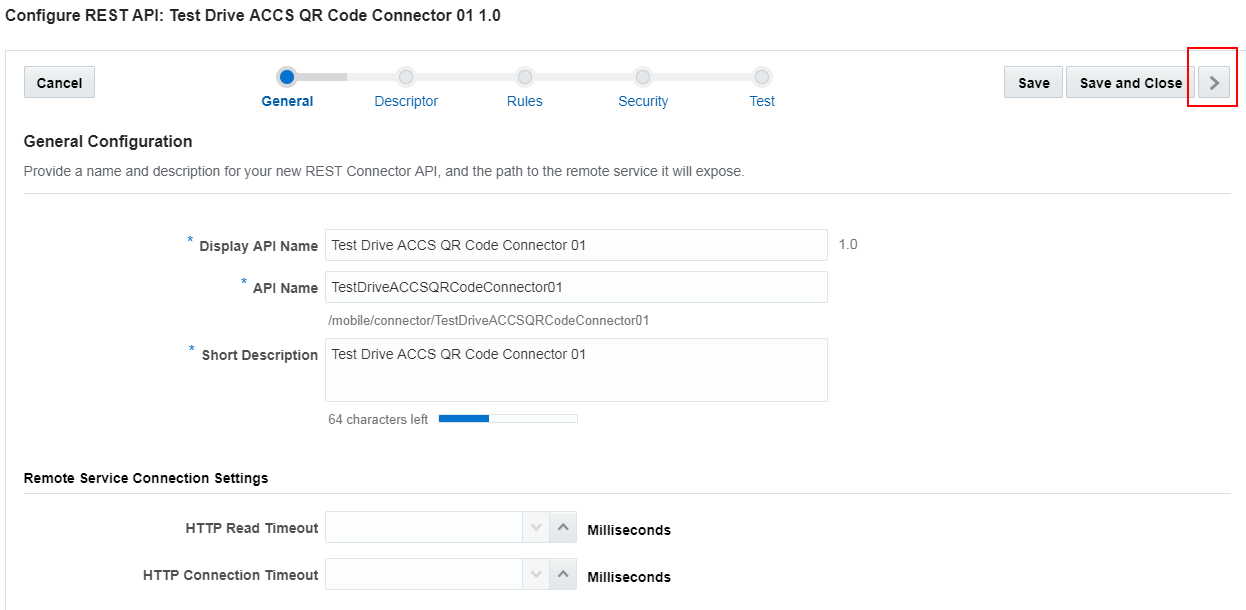
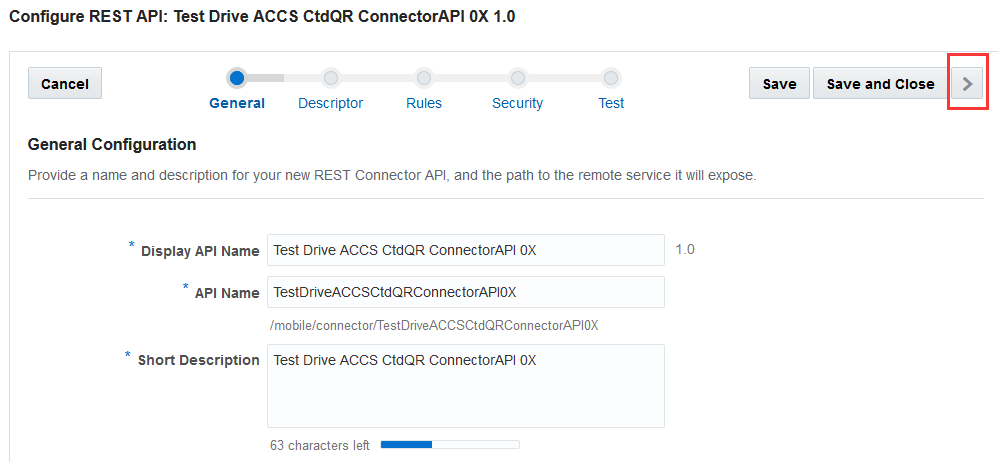
Reverted to create 3 connectors, and updated the images and name of connector APIs to sync with 403

diff --git a/Mobile Service and App/402-MobileLab.md b/Mobile Service and App/402-MobileLab.md
@@ -15,14 +15,85 @@ Once you create a connector API to access the service, you can use it in custom 
 ### About the Exercise Today ###
 There are 3 Connector APIs for offer information query, QR code creation and offer result (e.g. reject or accept) update from external systems like ACCS (Application Container Cloud Service) and ICS (Integration Cloud Service) that we need to access in this lab.
 
-For the above 3 Connector APIs, we will guide you through creating the "Product Management" API Connector to get offer information using an ACCS microservice and the rest 2 have already been created for you to use in the MCS instance.
+To create the above 3 Connector APIs, we will:
+- Create "Product Management" API Connector to get offer information using an ACCS microservice
+- Create "QR Code" API Connector to generate QR codes using an ACCS microservice
+- Create "Process Offer" API Connector to update offer result using an ICS microservice
 
 ### Prerequisites ###
 - Loyalty management MBE created in the previous lab.
 
+#### Create "Product Management" API Connector to get offer information ####
+In this lab, we will create a connector API to integrate ACCS microservice for offer information. **[Note]** A connector API is for the custom APIs. It means a connector API doesn't have direct interactions with mobile applications. Mobile applications only interact with custom APIs and custom APIs will use the connector API to interact external services and systems.
+
+1. On the navigation pane, select “Applications” -> “Connectors”. Click on the “+ New Connector” green button and select “REST” from the dropdown list.
+![](../common/images/mobile/402-New_Connector.png)
+
+2. 2. Enter `Test Drive ACCS PtMgt Connector API 0X`(0X is the sequence number assigned to you by instructor. - e.g.: 01) as the name and short description for this connector. The API name will be automatically generated for you while you type in the Display API Name. Note that the “API Name” will be used in custom API implementation coding thus is must meet JavaScript variable naming standards. Click on “Create” on the bottom right when you are done.
+![](../common/images/mobile/402-New_Connector_Info.png)
+
+3. Review the name/description on the general screen and click on the “Next Step” button (“>” on the top right) to move to the next screen.
+![](../common/images/mobile/402-Connector_Info_Review.png)
+
+4. Enter the URL (e.g.: `https://offer-<YOUR_DOMAIN_NAME>.apaas.em3.oraclecloud.com`. This is the endpoint CREATED by you in the Microservice Lab.) to the REST API into the “Remote URL” textbox. Click on “Next Step”.
+![](../common/images/mobile/402-Connector_URL_Setting.png)
+
+5. We won’t set any rules here, so just click on “Next Step”.
+![](../common/images/mobile/402-Connector_Rule_Setting.png)
+
+6. MCS supports a wide range of security policies for you to use. For the lab, to make it simple, no security policy setting is required. Just click on “Next Step”.
+![](../common/images/mobile/402-Connector_Security_Setting.png)
+
+7. Click on “Save” when prompt for confirmation.
+![](../common/images/mobile/402-Connector_Save.png)
+
+8. Now your connector is ready and you can test it. Select `GET` as the HTTP method, enter `/ptmgt/v1/offers/10001` into the “Local resource name” following the “Local URI”.
+![](../common/images/mobile/402-Connector_Test.png)
+
+9. Select your MBE(e.g.: LoyaltyMgmt_MBE01) you created from the dropdown list in the “Authentication” section and you will find the actual url that is getting called at the end in the “Remote URL” field. Click on “Test Endpoint”.
+![](../common/images/mobile/402-Connector_Test_EndPoint.png)
+
+10. You shall see an HTTP 200 OK response at the bottom of the page and it is all set.
+![](../common/images/mobile/402-Connector_Test_Result.png)
+
+---
+#### Create "QR Code" API Connector to generate QR codes ####
+In this lab, we will create a connector API to integrate ACCS microservice for QR code generation. The whole process is almost same to the above.
+
+1. On the navigation pane, select “Applications” -> “Connectors”. Click on the “+ New Connector” green button and select “REST” from the dropdown list.
+![](../common/images/mobile/402-New_Connector.png)
+
+2. Enter `Test Drive ACCS CtdQR ConnectorAPI 0X`(0X is the sequence number assigned to you by instructor. - e.g.: 01) as a name for this connector. The API name will be automatically generated for you while you type in the Display API Name. Note that the “API Name” will be used in custom API implementation coding thus is must meet JavaScript variable naming standards. Click on “Create” on the bottom right when you are done.
+![](../common/images/mobile/402-QRCode_Connector_API.png)
+
+3. Review the name/description on the general screen and click on the “Next Step” button (“>” on the top right) to move to the next screen.
+![](../common/images/mobile/402-QRCode_Connector_API_Review.png)
+
+4. Enter the URL (e.g: `https://qrcodegenerator-<YOUR_DOMAIN_NAME>.apaas.em3.oraclecloud.com`. This is the endpoint CREATED by you in the Microservice Lab.) to the REST API into the “Remote URL” textbox. Click on “Next Step”.
+![](../common/images/mobile/402-QRCode_Connector_URL_Setting.png)
+
+5. We won’t set any rules here, so just click on “Next Step”.
+![](../common/images/mobile/402-QRCdoe_Connector_Rule_Setting.png)
+
+6. MCS supports a wide range of security policies for you to use. For the lab, to make it simple, no security policy setting is required. Just click on “Next Step”.
+![](../common/images/mobile/402-QRCdoe_Connector_Security_Setting.png)
+
+7. Click on “Save” when prompt for confirmation.
+![](../common/images/mobile/402-Connector_Save.png)
+
+8. Now your connector is ready and you can test it. Select `GET` as the HTTP method, enter `/ctdqr/v1/offer/10001` into the “Local resource name” following the “Local URI”.
+![](../common/images/mobile/402-QRCode_Connector_Test.png)
+
+9. Select your MBE(e.g.: `LoyaltyMgmt_MBE01`) you created from the dropdown list in the “Authentication” section and you will find the actual url that is getting called at the end in the “Remote URL” field. Click on “Test Endpoint”.
+![](../common/images/mobile/402-QRCode_Connector_Test_EndPoint.png)
+
+10. You shall see an HTTP 200 OK response at the bottom of the page and it is all set.
+![](../common/images/mobile/402-QRCode_Connector_Test_Result.png)
+
+
 ----
 #### Create "Process Offer" Connector API to update offer result ####
-In this lab, we will create a connector API to integrate ICS microservice for updating offer result. **[Note]** A connector API is for the custom APIs. It means a connector API doesn't have direct interactions with mobile applications. Mobile applications only interact with custom APIs and custom APIs will use the connector API to interact external services and systems.
+In this lab, we will create a connector API to integrate ICS microservice for updating offer result. The whole process is almost same to the above.
 
 1. On the navigation pane, select “Applications” -> “Connectors”. Click on the “+ New Connector” green button and select “REST” from the dropdown list.
 ![](../common/images/mobile/402-New_Connector.png)
@@ -64,14 +135,6 @@ In this lab, we will create a connector API to integrate ICS microservice for up
 13. You shall see an HTTP 200 OK response at the bottom of the page and it is all set.
 ![](../common/images/mobile/402-ICS_Connector_Test_Result.png)
 
-----
-#### Create "Product Management" and "QR Code" Connector APIs ####
-Repeat the above steps to create another two connector APIs to integrate with the "Product Management" and "QR Code" microservices you created in the microservices lab. Since security is not implemented for these two microservices, you don't need to configure security policy for these two new connector APIs. Instead, you can simply create two REST connector APIs with the following informatoin. **[Note]** Remember to replace the '0X' in the API name, select 'I don't have a descriptor, only the REST service URL' in the 'Descriptor' step, and provide the Remote URL that you created for your microservices.
-
-| Display API Name, API Name, Short Description | Remote URL                                                                                            |
-|-----------------------------------------------|-------------------------------------------------------------------------------------------------------|
-| TestDriveACCSPtMgtConnectorAPI0X              | HOST URL of your product management service, i.e. https://offer-gse00000423.apaas.em2.oraclecloud.com |
-| TestDriveACCSCtdQRConnectorAPI0X              | HOST URL of your QR Code service, i.e. https://qrcodegenerator-gse00000423.apaas.em2.oraclecloud.com  |
 
 You have finished this lab successfully.
 
